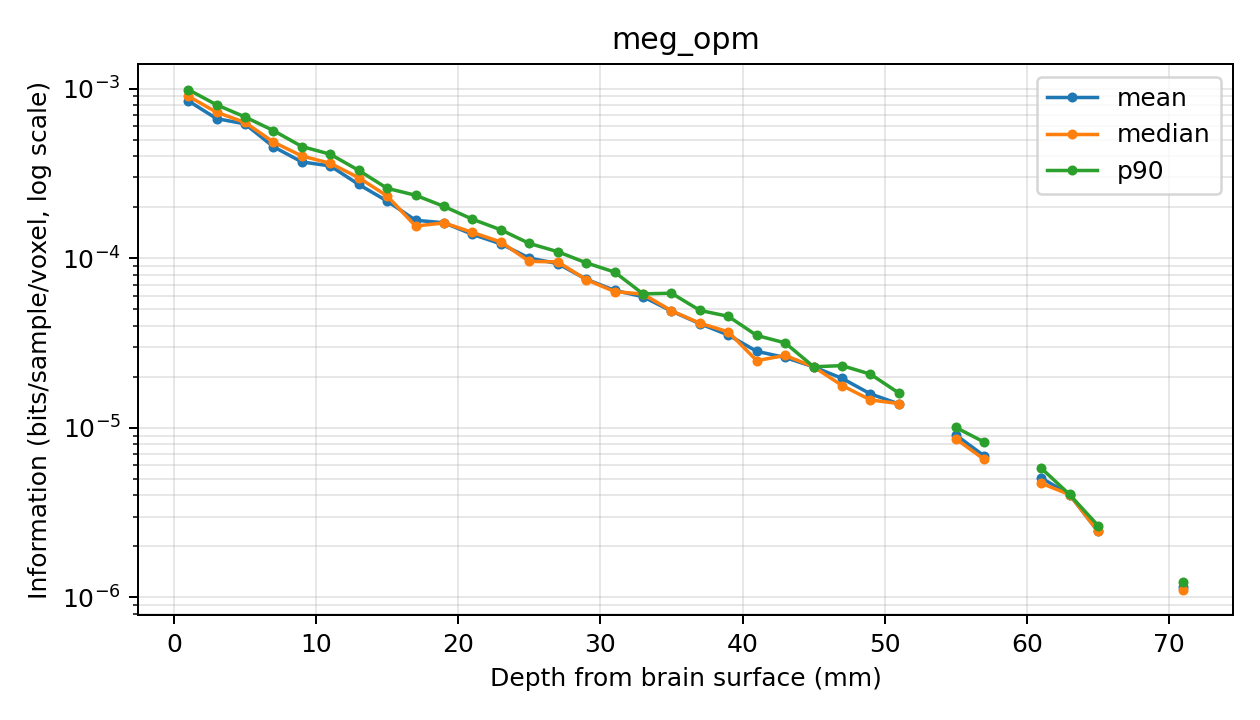
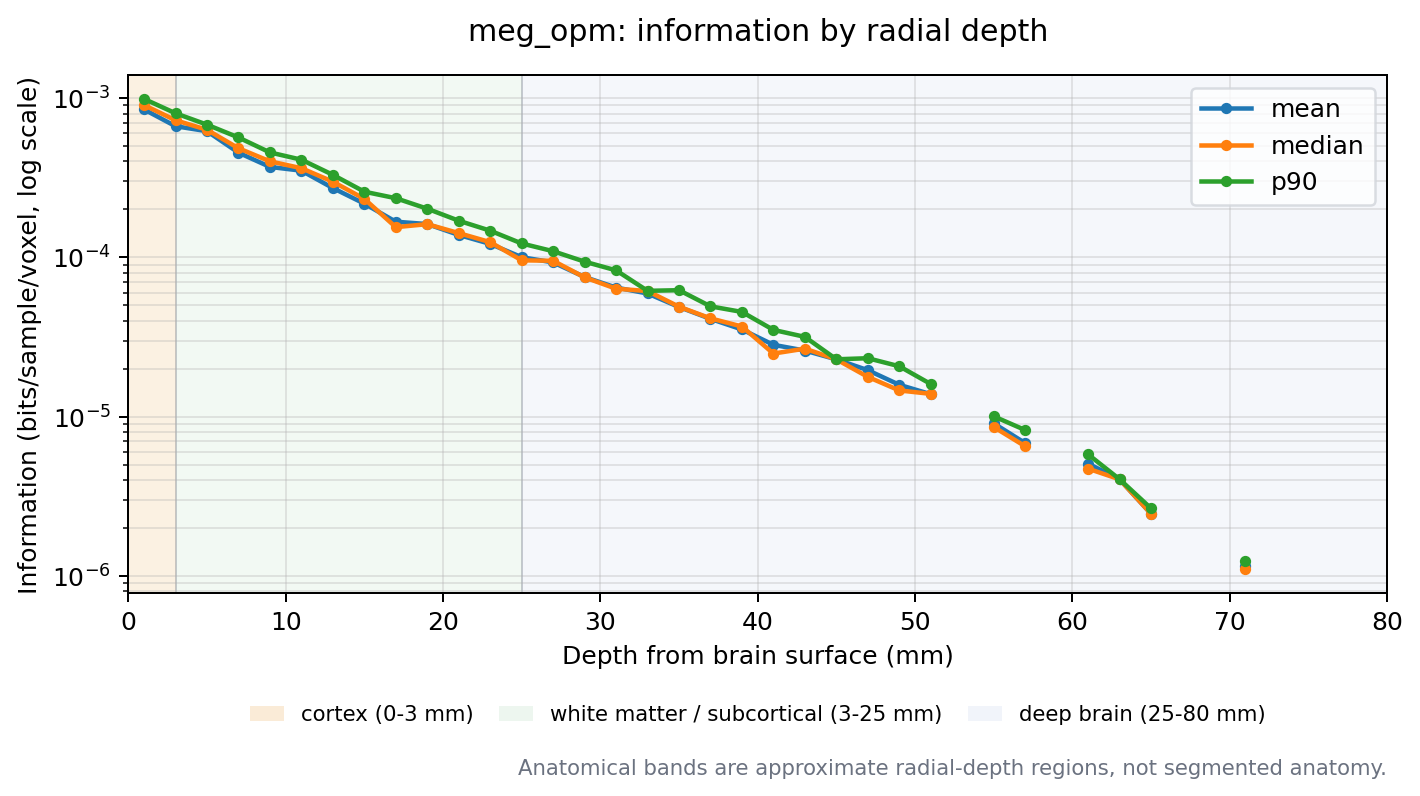
Add anatomical depth bands to information plots

diff --git a/compute_information_maps.py b/compute_information_maps.py
@@ -26,6 +26,7 @@ import json
 from pathlib import Path
 
 import matplotlib.pyplot as plt
+from matplotlib.patches import Patch
 import numpy as np
 from scipy.linalg import cho_factor, cho_solve
 
@@ -50,6 +51,36 @@ COMPARISON_LABELS = {
     "meg_squid": "MEG SQUID",
     "fnirs_analytical_cw": "fNIRS CW",
 }
+MODALITY_COLORS = {
+    "EEG homogeneous": "#2563eb",
+    "MEG OPM": "#ea580c",
+    "MEG SQUID": "#16a34a",
+    "fNIRS CW": "#dc2626",
+}
+ANATOMICAL_DEPTH_BANDS = [
+    {
+        "label": "cortex",
+        "start_mm": 0.0,
+        "end_mm": 3.0,
+        "color": "#f2c88f",
+    },
+    {
+        "label": "white matter / subcortical",
+        "start_mm": 3.0,
+        "end_mm": 25.0,
+        "color": "#cde8d2",
+    },
+    {
+        "label": "deep brain",
+        "start_mm": 25.0,
+        "end_mm": float(BRAIN_RADIUS),
+        "color": "#d9e2f3",
+    },
+]
+ANATOMICAL_DEPTH_BAND_META = [
+    {k: band[k] for k in ("label", "start_mm", "end_mm")}
+    for band in ANATOMICAL_DEPTH_BANDS
+]
 
 
 def depth_mm(positions: np.ndarray) -> np.ndarray:
@@ -233,12 +264,13 @@ def plot_depth_profile(name: str, profile: dict[str, np.ndarray]) -> None:
     ]
 
     for scale in ("linear", "log"):
-        fig, ax = plt.subplots(figsize=(7, 4))
+        fig, ax = plt.subplots(figsize=(8.0, 4.8))
+        add_anatomy_depth_bands(ax)
         for label, values in series:
             y = values.copy()
             if scale == "log":
                 y = np.where(y > 0, y, np.nan)
-            ax.plot(x, y, marker="o", markersize=3, linewidth=1.4, label=label)
+            ax.plot(x, y, marker="o", markersize=3.5, linewidth=1.8, label=label)
 
         if scale == "log":
             ax.set_yscale("log")
@@ -247,14 +279,67 @@ def plot_depth_profile(name: str, profile: dict[str, np.ndarray]) -> None:
             ax.set_ylabel("Information (bits/sample/voxel)")
 
         ax.set_xlabel("Depth from brain surface (mm)")
-        ax.set_title(name)
+        ax.set_title(f"{name}: information by radial depth", pad=14)
+        ax.set_xlim(0, BRAIN_RADIUS)
         ax.grid(True, alpha=0.3, which="both")
-        ax.legend()
+        add_plot_legends(ax)
         fig.tight_layout()
-        fig.savefig(OUT_DIR / f"{name}_depth_profile_{scale}.png", dpi=180)
+        fig.savefig(OUT_DIR / f"{name}_depth_profile_{scale}.png", dpi=180, bbox_inches="tight")
         if scale == "linear":
-            fig.savefig(OUT_DIR / f"{name}_depth_profile.png", dpi=180)
+            fig.savefig(OUT_DIR / f"{name}_depth_profile.png", dpi=180, bbox_inches="tight")
         plt.close(fig)
+
+
+def anatomy_band_handles() -> list[Patch]:
+    return [
+        Patch(
+            facecolor=band["color"],
+            edgecolor="none",
+            alpha=0.35,
+            label=f"{band['label']} ({band['start_mm']:g}-{band['end_mm']:g} mm)",
+        )
+        for band in ANATOMICAL_DEPTH_BANDS
+    ]
+
+
+def add_anatomy_depth_bands(ax) -> None:
+    """Add approximate radial-depth anatomy bands behind the data."""
+    for band in ANATOMICAL_DEPTH_BANDS:
+        start = band["start_mm"]
+        end = band["end_mm"]
+        ax.axvspan(start, end, color=band["color"], alpha=0.25, lw=0, zorder=0)
+        ax.axvline(end, color="#6b7280", linewidth=0.8, alpha=0.35, zorder=1)
+
+    ax.text(
+        1.0,
+        -0.32,
+        "Anatomical bands are approximate radial-depth regions, not segmented anatomy.",
+        transform=ax.transAxes,
+        ha="right",
+        va="top",
+        fontsize=8.5,
+        color="#6b7280",
+    )
+
+
+def add_plot_legends(ax) -> None:
+    data_legend = ax.legend(
+        loc="upper right",
+        frameon=True,
+        facecolor="white",
+        edgecolor="#d1d5db",
+    )
+    ax.add_artist(data_legend)
+    ax.legend(
+        handles=anatomy_band_handles(),
+        loc="upper center",
+        bbox_to_anchor=(0.5, -0.18),
+        ncol=3,
+        frameon=False,
+        fontsize=8.5,
+        columnspacing=1.2,
+        handlelength=1.6,
+    )
 
 
 def plot_combined_depth_profiles(paths: list[Path], scaling: str) -> None:
@@ -273,12 +358,21 @@ def plot_combined_depth_profiles(paths: list[Path], scaling: str) -> None:
         )
 
     for scale in ("linear", "log"):
-        fig, ax = plt.subplots(figsize=(7.6, 4.4))
+        fig, ax = plt.subplots(figsize=(8.8, 5.2))
+        add_anatomy_depth_bands(ax)
         for label, x, values in loaded:
             y = values.copy()
             if scale == "log":
                 y = np.where(y > 0, y, np.nan)
-            ax.plot(x, y, marker="o", markersize=3, linewidth=1.5, label=label)
+            ax.plot(
+                x,
+                y,
+                marker="o",
+                markersize=3.8,
+                linewidth=2.0,
+                label=label,
+                color=MODALITY_COLORS.get(label),
+            )
 
         if scale == "log":
             ax.set_yscale("log")
@@ -287,13 +381,22 @@ def plot_combined_depth_profiles(paths: list[Path], scaling: str) -> None:
             ax.set_ylabel("Mean information (bits/sample/voxel)")
 
         ax.set_xlabel("Depth from brain surface (mm)")
-        ax.set_title(f"Posterior information by depth ({scaling} scaling)")
+        ax.set_title(f"Posterior information by radial depth ({scaling} scaling)", pad=14)
+        ax.set_xlim(0, BRAIN_RADIUS)
         ax.grid(True, alpha=0.3, which="both")
-        ax.legend()
+        add_plot_legends(ax)
         fig.tight_layout()
-        fig.savefig(OUT_DIR / f"all_modalities_depth_mean_{scaling}_{scale}.png", dpi=180)
+        fig.savefig(
+            OUT_DIR / f"all_modalities_depth_mean_{scaling}_{scale}.png",
+            dpi=180,
+            bbox_inches="tight",
+        )
         if scaling == DEFAULT_SCALING:
-            fig.savefig(OUT_DIR / f"all_modalities_depth_mean_{scale}.png", dpi=180)
+            fig.savefig(
+                OUT_DIR / f"all_modalities_depth_mean_{scale}.png",
+                dpi=180,
+                bbox_inches="tight",
+            )
         plt.close(fig)
 
 
@@ -310,6 +413,10 @@ def save_result(
     d = depth_mm(positions)
     profile = summarize_by_depth(d, info_bits, depth_bin_width_mm)
     out_path = OUT_DIR / f"{name}_posterior_info.npz"
+    params_with_context = {
+        **params,
+        "anatomical_depth_bands_mm": ANATOMICAL_DEPTH_BAND_META,
+    }
     np.savez(
         out_path,
         positions_mm=positions,
@@ -322,7 +429,7 @@ def save_result(
         depth_p90_bits=profile["p90_bits"],
         depth_bin_count=profile["count"],
         depth_bin_width_mm=depth_bin_width_mm,
-        params_json=json.dumps(params, sort_keys=True),
+        params_json=json.dumps(params_with_context, sort_keys=True),
     )
 
     plot_depth_profile(name, profile)
